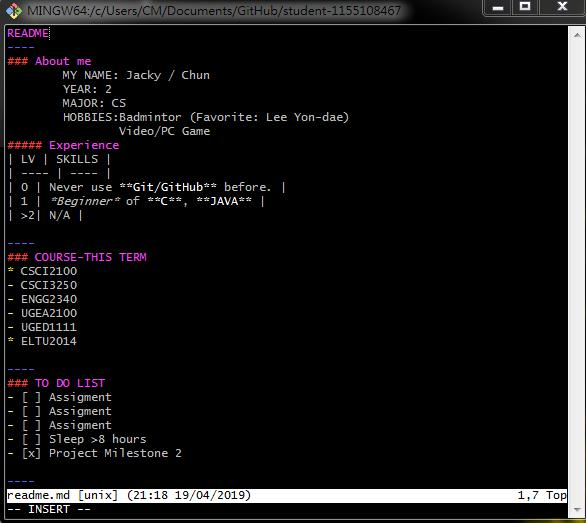
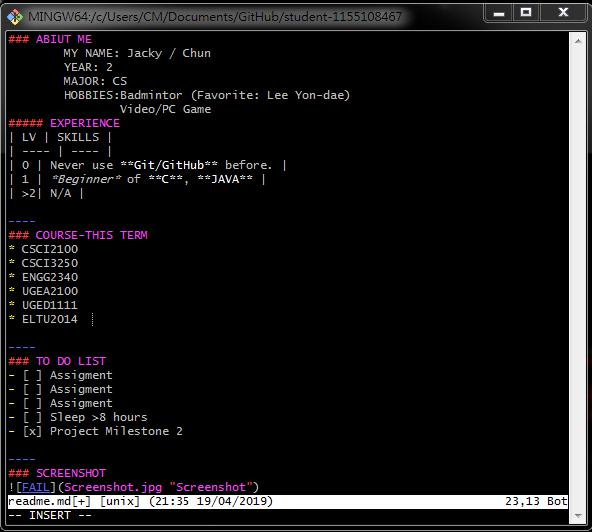
readme.md

Changed region(s): [[0.0, 0.0, 1.0, 1.0]]

diff --git a/readme.md b/readme.md
@@ -31,5 +31,5 @@ README
 - [x] Project Milestone 2  
 
 ----
-### Screenshot
+### SCREENSHOT
 ![FAIL](Screenshot.jpg "Screenshot")
